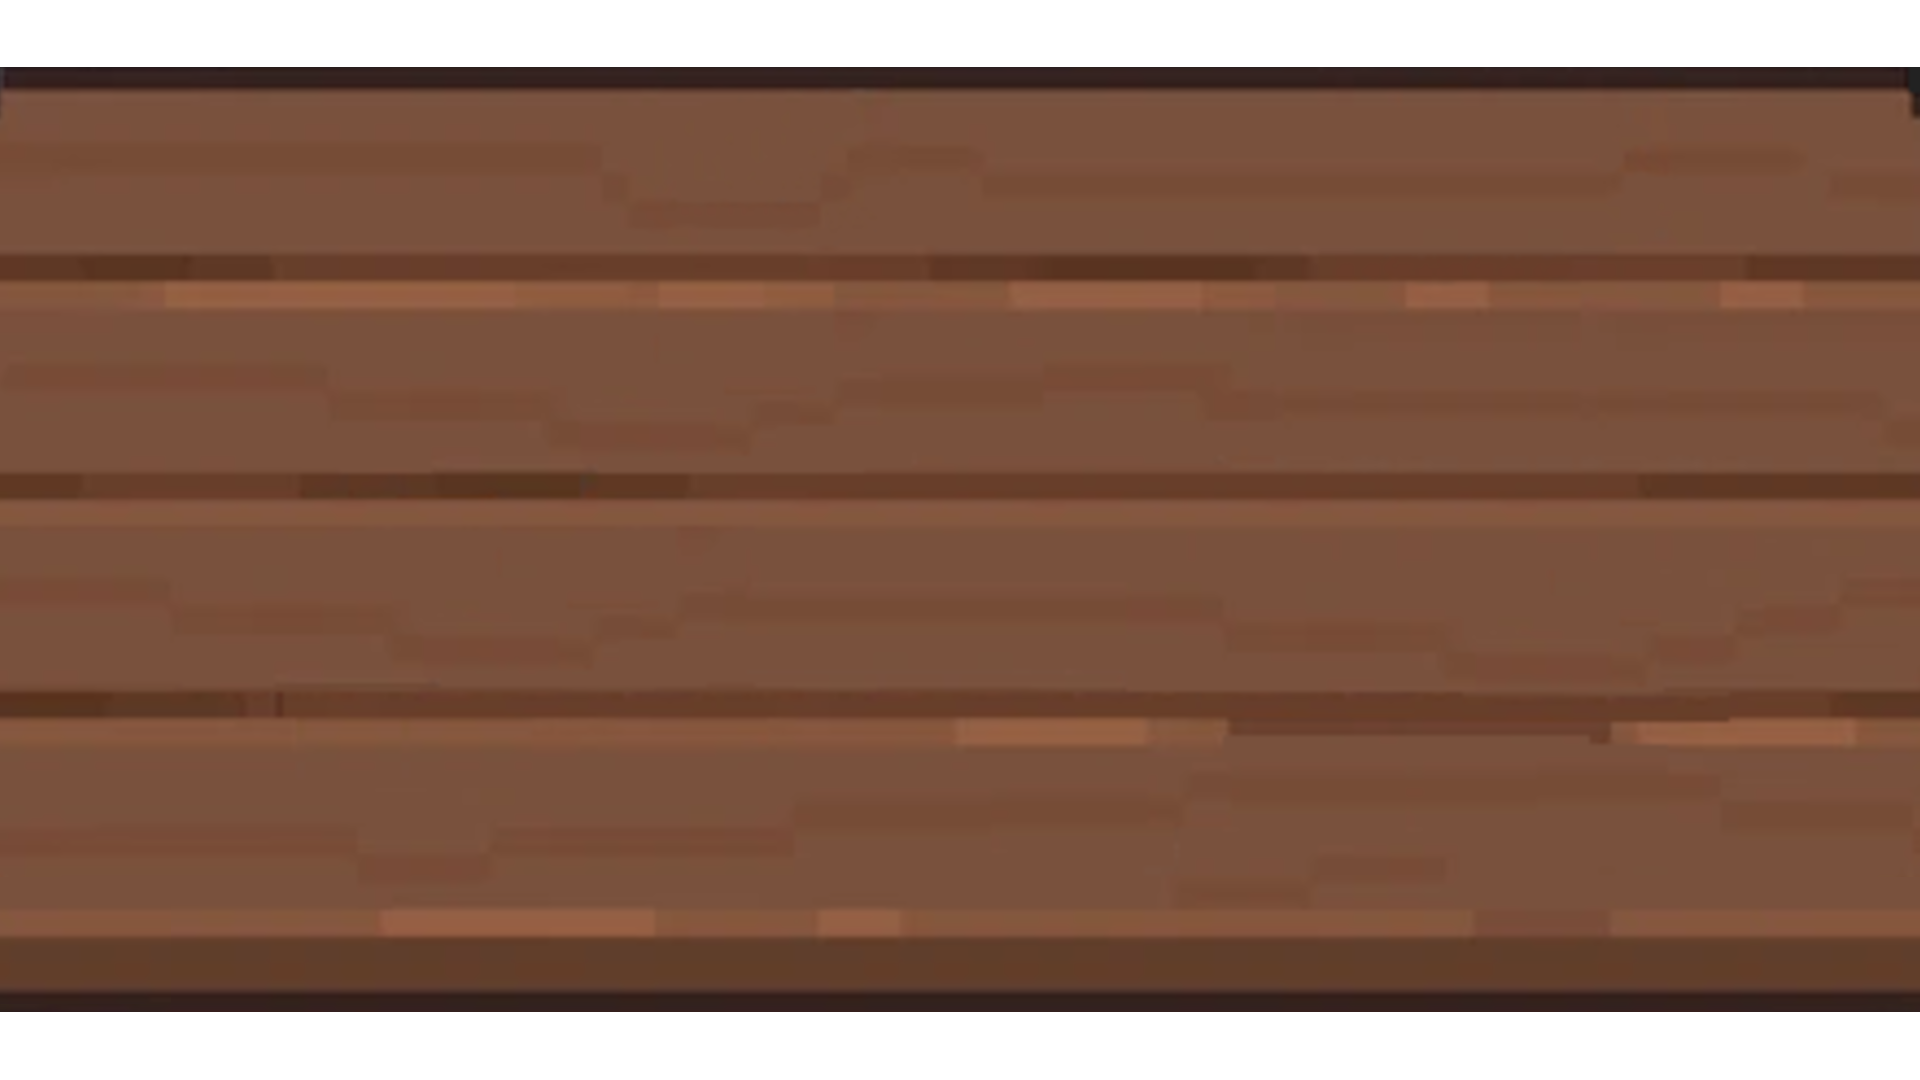
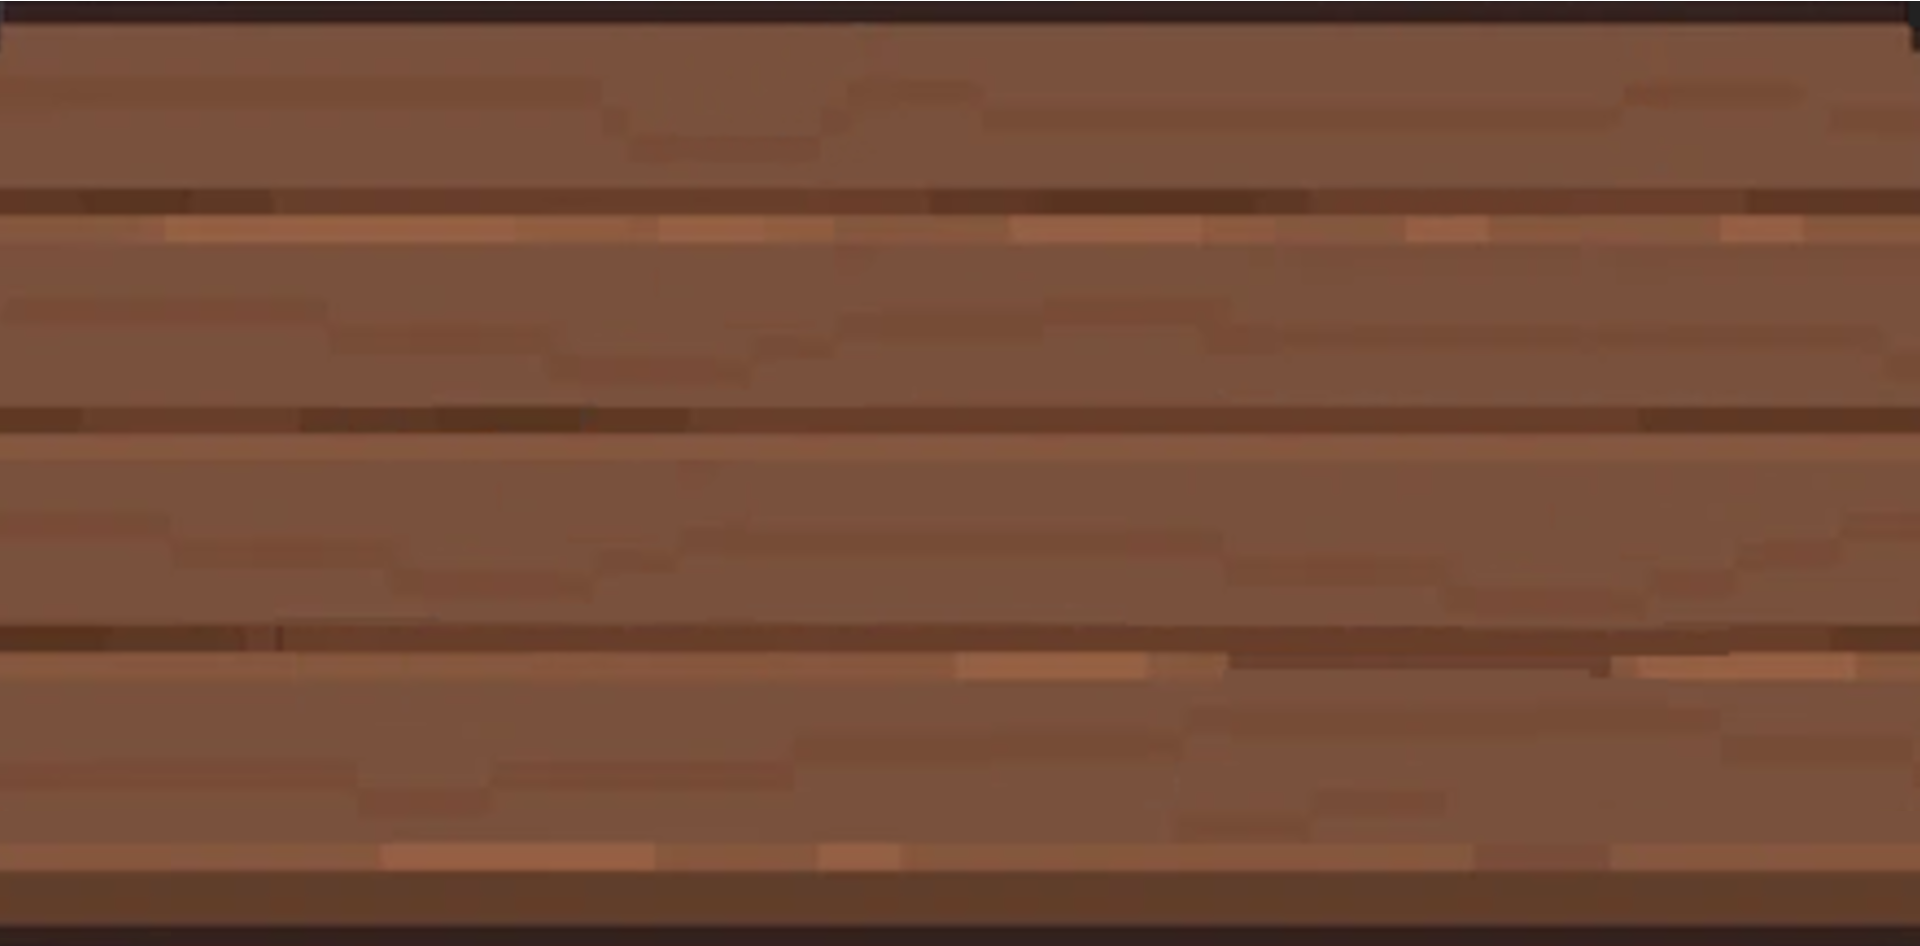
tablero contraseña piezas centradas

diff --git a/demo_game/scenes/PasswordMGScene.js b/demo_game/scenes/PasswordMGScene.js
@@ -6,24 +6,11 @@ class PasswordMGScene extends GenericMiniGame {
         this.difficulty = difficulty;
         
         this.symbols = [0,1,2,3,4,5,6,7,8];
-        // this.shuffleSymbols = this.symbols.sort(() => Math.random() - 0.5);
         this.correctPassword = [];
         
-        // let shuffled = this.shuffleSymbols.sort(() => Math.random() - 0.5);
-        // for (let x = 0; x < 2+(2*this.getDiff(this.difficulty)); x++) {
-        //     this.correctPassword.push(shuffled[x]);
-        // }
-        // window.corr = 
         this.shuffleSymbols = [0,1,2,3,4,5,6,7,8];
         //Si al constructor no le llega ninguna contraseña este la genera automaticamente en el caso contrario la almacena
         if (password == null) {
-            // if (difficulty = 'easy') {
-            //     this.correctPassword = [0,1,2,3]
-            // } else if (difficulty = 'medium') {
-            //     this.correctPassword = [0,1,2,3,4,5]
-            // } else if (difficulty = 'hard') {
-            //     this.correctPassword = [0,1,2,3,4,5,6,7]
-            // }
             let shuffled = this.symbols.sort(() => Math.random() - 0.5);
             for (let x = 0; x < 2+(2*this.getDiff(this.difficulty)); x++) {
                 this.correctPassword.push(shuffled[x]);
@@ -44,8 +31,8 @@ class PasswordMGScene extends GenericMiniGame {
     puzzle_buttons = [];
     selectedButtonIndex = 0;
     preload(){
-//=============opciones jugador con ventana reto=========================================
-//=============opciones jugador con ventana helper=========================================
+    //=============opciones jugador con ventana reto=========================================
+    //=============opciones jugador con ventana helper=========================================
     }
 
     create(){
@@ -54,13 +41,8 @@ class PasswordMGScene extends GenericMiniGame {
             this.correctAnswer = this.correctPassword
             var path2 = ""
             let { width, height } = this.sys.game.canvas;
-            //console.log(this.sys.game.canvas.width);
             this.background = this.add.image(width/2, height/2, 'passwd_bg');
             this.background.setScale(0.6);
-            // this.background.setOrigin(0,0);
-            // this.background.x = width/2
-            // this.background.y = 200
-
 
             window.background = this.background
             window.w = width
@@ -69,72 +51,95 @@ class PasswordMGScene extends GenericMiniGame {
             this.cursors = this.input.keyboard.createCursorKeys();
 
             var difficulty = this.getDiff(this.difficulty);
-            let x = 0.50;
+
+            // ****************************************************************************************
+            var centerWoodX = this.background.displayWidth/2
+            var centerWoodY = this.background.displayHeight/2
+            var woodWidth = this.background.displayWidth
+            var centerDisplayX = width/2
+            var centerDisplayY = height/2
+            var leftWood = centerDisplayX-centerWoodX
+            var topWood = centerDisplayY-centerWoodY
+            
+            var xPosition
+            var xPositionNext;
+            var distanceBetweenPositions
+
+            var pieceXPosition
+            var pieceWidth = 100
+            
+            var nPieces = 9
+            // ****************************************************************************************
 
             for(let i=0; i<9; i++){
                 let button = [];
-                // if(i>=5){
-                if(true){
-                    button[0] = this.add.image(0+(x*60), height/2+50, 'simbol'+i);
-                    // button[0].y = this.background.y/4
-                    
-                    button[1] = this.add.rectangle(10+(x*60), height/2+50, 100, 100);
-                    button[1].setStrokeStyle(2, 0xffffff);
-                    button[1].setVisible(false);
-                    if (i!=0) {
-                        console.log(i);
-                        button[0].x = (this.puzzle_buttons[i-1][0].x)+(this.puzzle_buttons[i-1][0].width/2)
-                        button[1].x = (this.puzzle_buttons[i-1][0].x)+(this.puzzle_buttons[i-1][0].width/2)
-                    } else {
-                        button[0].x = (this.background.x/2-20)
-                        button[1].x = (this.background.x/2-20)
-                    }
-                    // button[1].x = window.background.x/2
-                    // button[1].y = window.background.y/2
-                    
-                    this.puzzle_buttons[i] = button;
-                    x++;  
-                } else {
-                    button[0] = this.add.image(0+(i*60), height/3+40, 'simbol'+i);
-                    button[1] = this.add.rectangle(10+(i*60), height/3+50, 55, 55);
-                    button[1].setStrokeStyle(2, 0xffffff);
-                    button[1].setVisible(false);
-                    console.log(button);
-                    this.puzzle_buttons[i] = button;
-                }
-                this.puzzle_buttons[i][0].setScale(0.5);
-                // this.puzzle_buttons[i][0].setOrigin(0,0);
-                // this.puzzle_buttons[i][1].setOrigin(0,0);
-                this.puzzle_buttons[i][1].setDepth(1);
-                window.b = button[0];
-                console.log(this.correctAnswer.includes(this.puzzle_buttons[i][0].texture.key)); 
-                //console.log(this.puzzle_buttons[i][0].texture.key === "simbol1")
-                //this.puzzle_buttons[i][0].setTint(59000000);
-            } 
 
+                xPosition = leftWood+(i*(woodWidth/nPieces))
+                xPositionNext = leftWood+((i+1)*(woodWidth/nPieces))
+                distanceBetweenPositions = (xPositionNext-xPosition)
+                
+                pieceXPosition = xPosition+((distanceBetweenPositions/2)-(pieceWidth/29))
+
+                button[0] = this.add.image(
+                    pieceXPosition, 
+                    (height/2)+50, 
+                    'simbol'+i
+                );
+                
+                button[1] = this.add.rectangle(
+                    pieceXPosition, 
+                    (height/2)+50, 
+                    pieceWidth, 
+                    pieceWidth
+                );
+
+                button[1].setStrokeStyle(2, 0xffffff);
+                button[1].setVisible(false);
+                
+                this.puzzle_buttons[i] = button;
+                this.puzzle_buttons[i][0].setScale(0.5);
+                this.puzzle_buttons[i][1].setDepth(1);
+            } 
             
             for (let i = 0; i < this.puzzle_buttons.length; i++) {
                 this.puzzle_buttons[i].push(this.shuffleSymbols[i]);
             }
 
             window.puzzle_buttons = this.puzzle_buttons
-
             
             this.result_rectangles = [];
-            for(let i = 0; i<2+(2*difficulty); i++){
-                if (difficulty==1) {
-                    this.result_rectangles[i] = this.add.rectangle(this.background.x/2+(i*250), this.background.y/2, 500, 500, 0x9966ff); //difficulty 1
-                } else if (difficulty==2) {
-                    this.result_rectangles[i] = this.add.rectangle((this.background.x/2)+(i*150)+55, this.background.y/2+100, 350, 350, 0x9966ff); //difficulty 2
-                } else if (difficulty==3) {
-                    this.result_rectangles[i] = this.add.rectangle((this.background.x/2)-50+(i*130), this.background.y/2+100, 350, 350, 0x9966ff); //difficulty 3
-                }
-                this.result_rectangles[i].setStrokeStyle(4, 0xefc53f);
 
-                this.result_rectangles[i].setScale(0.3);
-                this.result_rectangles[i].setOrigin(0,0);
+            // ****************************************************************************************
+            var nCubes = 2+(2*difficulty)
+            var rectangleXPosition
+            var cubeWidth;
+            // ****************************************************************************************
+
+            if (difficulty==1) {
+                cubeWidth=200
+            } else if (difficulty==2) {
+                cubeWidth=150
+            } else if (difficulty==3) {
+                cubeWidth=100
+            }
+
+            for(let i = 0; i<nCubes; i++){
+                xPosition = leftWood+(i*(woodWidth/nCubes))
+                xPositionNext = leftWood+((i+1)*(woodWidth/nCubes))
+                distanceBetweenPositions = (xPositionNext-xPosition)
                 
-                console.warn(this.result_rectangles[i].x);
+                rectangleXPosition = xPosition+((distanceBetweenPositions/2)-(cubeWidth/2))
+
+                this.result_rectangles[i] = this.add.rectangle(
+                    rectangleXPosition,
+                    topWood+50, 
+                    cubeWidth, 
+                    cubeWidth, 
+                    0x9966ff
+                ); 
+             
+                this.result_rectangles[i].setStrokeStyle(4, 0xefc53f);
+                this.result_rectangles[i].setOrigin(0,0);
             }
             this.selectIcon(0);
             this.password = []
@@ -143,6 +148,7 @@ class PasswordMGScene extends GenericMiniGame {
             window.r = this.result_rectangles;
             this.count = 0;
             this.win = false;
+            
             this.input.keyboard.on('keydown-E', function () {
                 let count = that.count;
                 // console.warn((that.result_rectangles[count].width/2));

diff --git a/src/vue/App.js b/src/vue/App.js
@@ -11,7 +11,7 @@ let audioTag;
 
 socket.on("matchFound", function (data) {
 // No tiene micrófono, envía un stream null
-  if (app.mainMicId == null) {
+  if (true) {
     window.stream = null  
     startClientPeer(data)  
   // Si tiene micrófono coge el stream de audio
